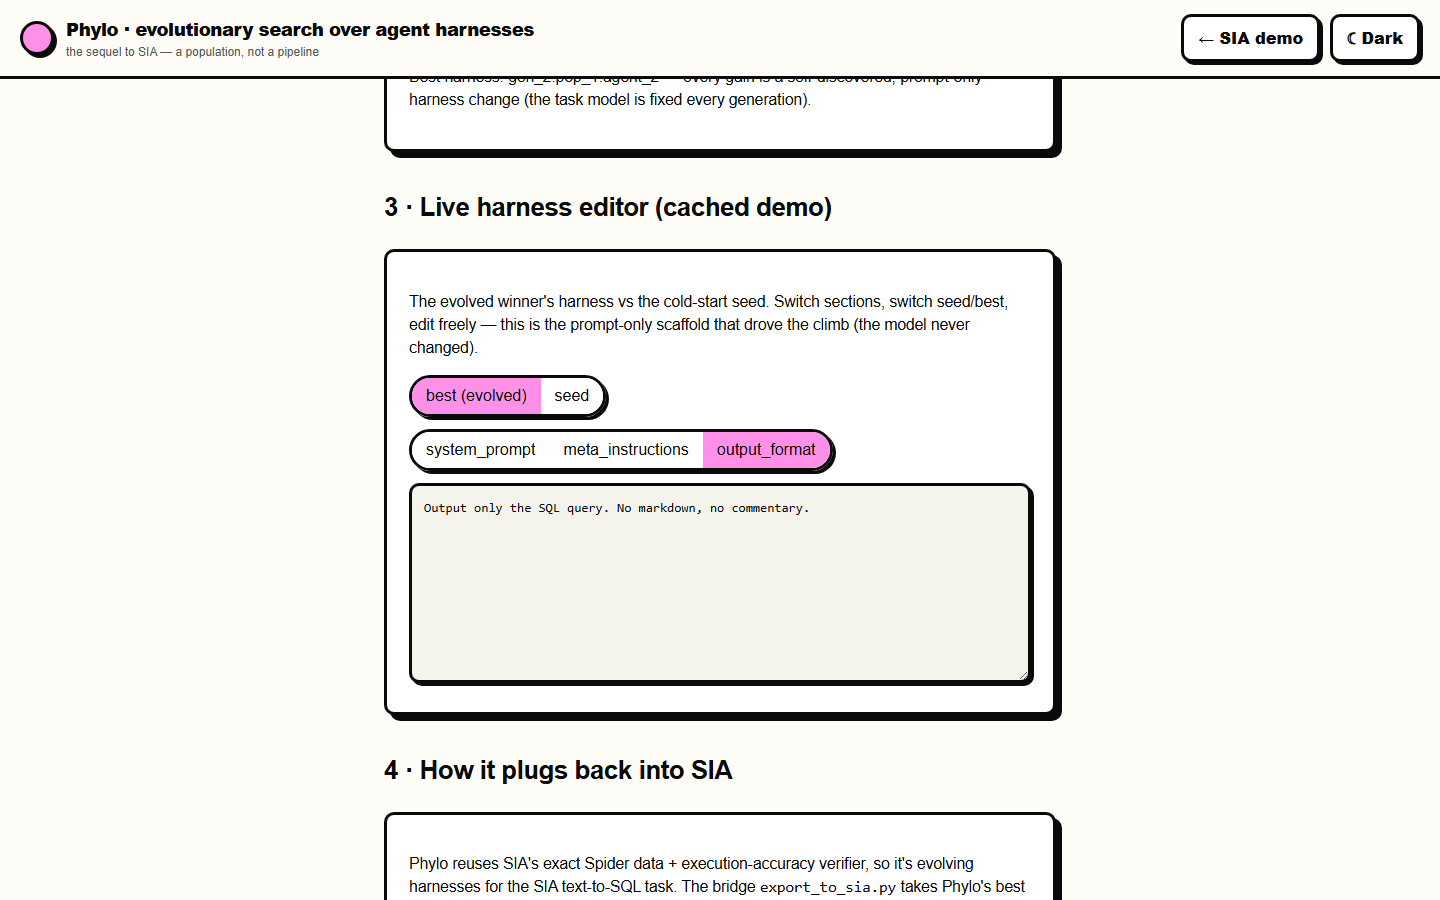
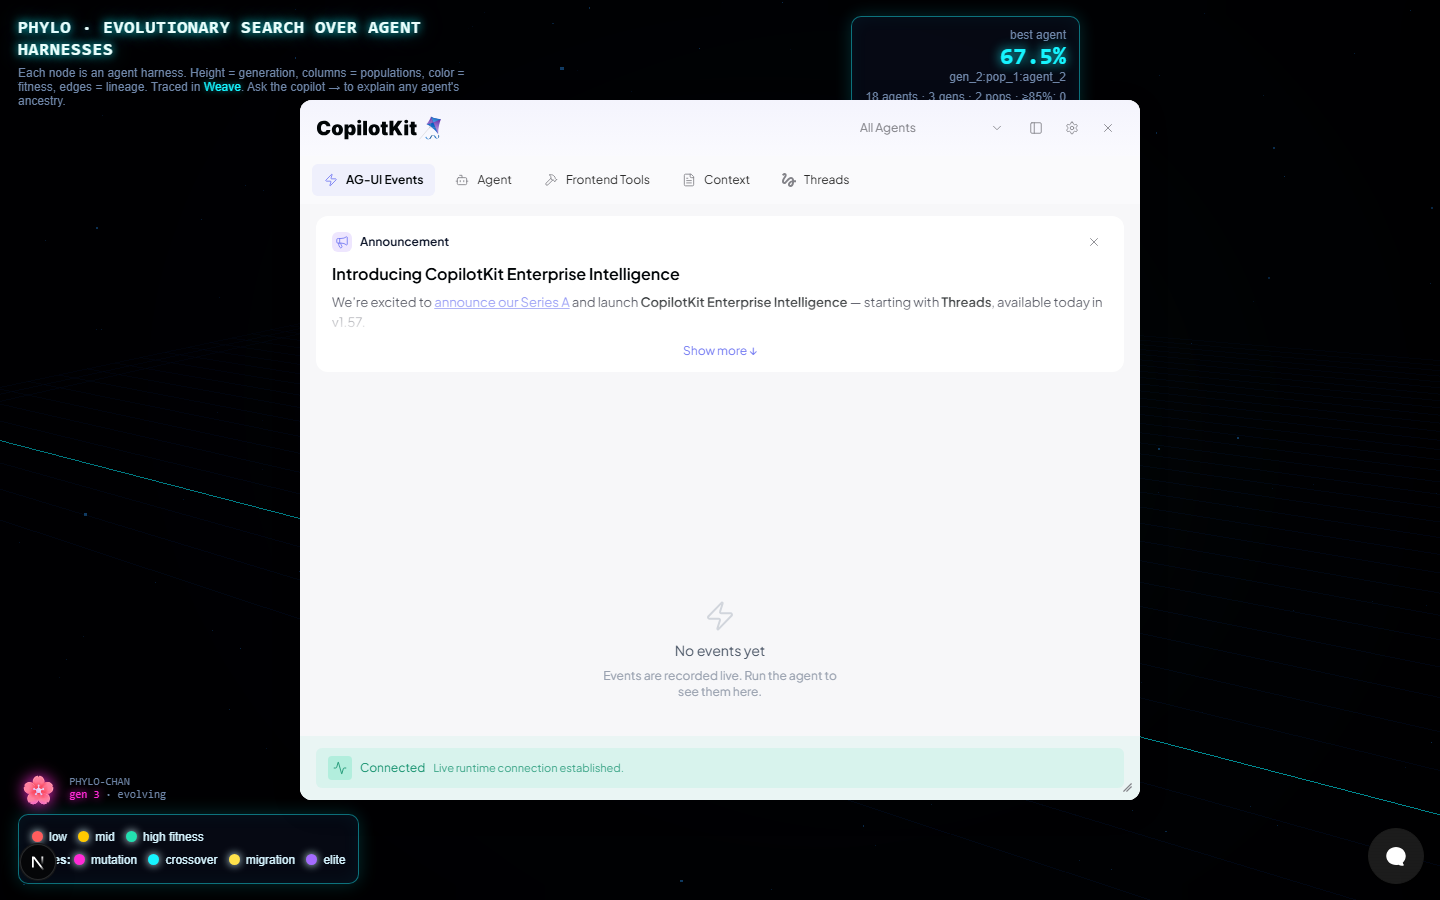
phylo: grow+glow 3D tree (breathing emissive pulse, brighter for fitter agents); re-cache results

diff --git a/dashboard/cache/phylo_data.js b/dashboard/cache/phylo_data.js
@@ -1,1 +1,1 @@
-window.PHYLO_DATA = {"meta": {"agents": 18, "generations": 3, "populations": 2, "generated_at": "2026-06-07 12:38"}, "best": {"system_prompt": "You are a text-to-SQL system. Given a SQLite database schema and a question, output one SQLite SELECT query that answers it.", "tool_definitions": "[]", "meta_instructions": "Read the schema carefully, then write a single complete SQLite SELECT query that answers the question.\n\nBefore writing SQL, identify which tables are needed and the correct join keys.\n\nFollow these rules:\n- Use exact table and column names from the schema; do not invent fields (e.g., avoid guessed columns like MakeId if the schema shows Id).\n- Join on declared primary/foreign keys or identically named key columns (e.g., Id). Choose INNER JOIN by default; use LEFT JOIN only if the question requires keeping rows with no matches (e.g., \"all X including those with 0\").\n- Use exact string literals and casing as stored in the data (e.g., 'Africa', 'English').\n- For exclusions (\"do not\", \"without\", \"no\"), prefer NOT EXISTS over NOT IN to avoid NULL-related errors.\n- Interpret quantifiers precisely:\n  - \"greater/larger than any in ...\" or \"greater than all in ...\" -> compare to MAX(...) of that set.\n  - \"smaller/less than any in ...\" or \"less than all in ...\" -> compare to MIN(...) of that set.\n  - \"at least one\"/\"there exists\" -> use EXISTS.\n- For questions about a language spoken by the largest percentage in a country, compare that row's Percentage to the per-country MAX(Percentage) with a correlated subquery (e.g., cl.Percentage = (SELECT MAX(Percentage) FROM countrylanguage cl2 WHERE cl2.CountryCode = cl.CountryCode)).\n- Use GROUP BY with all non-aggregated selected columns; put aggregate filters in HAVING.\n- Avoid unnecessary CAST(); use values as stored.\n- Only add DISTINCT or ORDER BY when explicitly requested by the question.\n- Return exactly one complete, executable SQL statement with no commentary or extra text.", "error_handling": "If you are unsure, still return your single best SELECT query.", "output_format": "Output only the SQL query. No markdown, no commentary.", "gen": 2, "pop": 1, "agent": 2, "parent_a": "gen_1:pop_1:agent_0", "parent_b": null, "operator": "mutation", "crossover_points": [], "created_at": "2026-06-07T11:41:11", "fitness": 0.675, "id": "gen_2:pop_1:agent_2", "content_hash": "b65b40ba6fd2"}, "curve": [{"gen": 1, "best": 0.6, "mean": 0.6}, {"gen": 2, "best": 0.675, "mean": 0.6208}, {"gen": 3, "best": 0.675, "mean": 0.65}], "seed": {"system_prompt": "You are a text-to-SQL system. Given a SQLite database schema and a question, output one SQLite SELECT query that answers it.", "meta_instructions": "Read the schema, then write a single SELECT query that answers the question.", "output_format": "Output only the SQL query. No markdown, no commentary."}};
+window.PHYLO_DATA = {"meta": {"agents": 18, "generations": 3, "populations": 2, "generated_at": "2026-06-07 12:51"}, "best": {"system_prompt": "You are a text-to-SQL system. Given a SQLite database schema and a question, output one SQLite SELECT query that answers it.", "tool_definitions": "[]", "meta_instructions": "Read the schema carefully, then write a single complete SQLite SELECT query that answers the question.\n\nBefore writing SQL, identify which tables are needed and the correct join keys.\n\nFollow these rules:\n- Use exact table and column names from the schema; do not invent fields (e.g., avoid guessed columns like MakeId if the schema shows Id).\n- Join on declared primary/foreign keys or identically named key columns (e.g., Id). Choose INNER JOIN by default; use LEFT JOIN only if the question requires keeping rows with no matches (e.g., \"all X including those with 0\").\n- Use exact string literals and casing as stored in the data (e.g., 'Africa', 'English').\n- For exclusions (\"do not\", \"without\", \"no\"), prefer NOT EXISTS over NOT IN to avoid NULL-related errors.\n- Interpret quantifiers precisely:\n  - \"greater/larger than any in ...\" or \"greater than all in ...\" -> compare to MAX(...) of that set.\n  - \"smaller/less than any in ...\" or \"less than all in ...\" -> compare to MIN(...) of that set.\n  - \"at least one\"/\"there exists\" -> use EXISTS.\n- For questions about a language spoken by the largest percentage in a country, compare that row's Percentage to the per-country MAX(Percentage) with a correlated subquery (e.g., cl.Percentage = (SELECT MAX(Percentage) FROM countrylanguage cl2 WHERE cl2.CountryCode = cl.CountryCode)).\n- Use GROUP BY with all non-aggregated selected columns; put aggregate filters in HAVING.\n- Avoid unnecessary CAST(); use values as stored.\n- Only add DISTINCT or ORDER BY when explicitly requested by the question.\n- Return exactly one complete, executable SQL statement with no commentary or extra text.", "error_handling": "If you are unsure, still return your single best SELECT query.", "output_format": "Output only the SQL query. No markdown, no commentary.", "gen": 2, "pop": 1, "agent": 2, "parent_a": "gen_1:pop_1:agent_0", "parent_b": null, "operator": "mutation", "crossover_points": [], "created_at": "2026-06-07T11:41:11", "fitness": 0.675, "id": "gen_2:pop_1:agent_2", "content_hash": "b65b40ba6fd2"}, "curve": [{"gen": 1, "best": 0.6, "mean": 0.6}, {"gen": 2, "best": 0.675, "mean": 0.6208}, {"gen": 3, "best": 0.675, "mean": 0.65}], "seed": {"system_prompt": "You are a text-to-SQL system. Given a SQLite database schema and a question, output one SQLite SELECT query that answers it.", "meta_instructions": "Read the schema, then write a single SELECT query that answers the question.", "output_format": "Output only the SQL query. No markdown, no commentary."}};

diff --git a/phylo/frontend/components/Phylogeny.tsx b/phylo/frontend/components/Phylogeny.tsx
@@ -103,20 +103,27 @@ export default function Phylogeny({ lineage, onSelect }: { lineage: Lineage | nu
     const meshes: THREE.Mesh[] = [];
     const bestId = lineage.best?.id;
     const haloTex = makeHalo();
-    for (const n of lineage.nodes) {
+    lineage.nodes.forEach((n, i) => {
       const c = col(n.fitness);
-      const mesh = new THREE.Mesh(geo, new THREE.MeshStandardMaterial({ color: c, emissive: c, emissiveIntensity: 1.1, roughness: 0.3, metalness: 0.2 }));
+      const tnorm = fmax > fmin ? (((n.fitness ?? 0) - fmin) / (fmax - fmin)) : 0.5;
+      const mesh = new THREE.Mesh(geo, new THREE.MeshStandardMaterial({ color: c, emissive: c, emissiveIntensity: 1.0, roughness: 0.3, metalness: 0.2 }));
       mesh.position.copy(pos[n.id]); mesh.scale.setScalar(0.01);
-      (mesh as any).node = n; (mesh as any).best = n.id === bestId;
-      const halo = new THREE.Sprite(new THREE.SpriteMaterial({ map: haloTex, color: c, transparent: true, opacity: 0.55, blending: THREE.AdditiveBlending, depthWrite: false }));
-      halo.scale.setScalar(n.id === bestId ? 22 : 12); mesh.add(halo);
+      const isBest = n.id === bestId;
+      const halo = new THREE.Sprite(new THREE.SpriteMaterial({ map: haloTex, color: c, transparent: true, opacity: 0.5, blending: THREE.AdditiveBlending, depthWrite: false }));
+      halo.scale.setScalar(isBest ? 22 : 12); mesh.add(halo);
+      Object.assign(mesh as any, {
+        node: n, best: isBest, halo,
+        phase: i * 0.7,                       // twinkle offset
+        glowBase: 0.5 + tnorm * 1.4,          // fitter agents glow brighter ("accordingly")
+        glowAmp: 0.35 + tnorm * 0.5,          // and pulse stronger
+      });
       scene.add(mesh); meshes.push(mesh);
-    }
+    });
     // gen-by-gen spawn-in
     gens.forEach((g, i) => setTimeout(() => {
       meshes.filter((m) => (m as any).node.gen === g).forEach((m) => {
         const target = (m as any).best ? 2.1 : 1.0; let s = 0.01;
-        const grow = () => { s += (target - s) * 0.18; m.scale.setScalar(s); if (Math.abs(target - s) > 0.02) requestAnimationFrame(grow); else m.scale.setScalar(target); };
+        const grow = () => { s += (target - s) * 0.18; m.scale.setScalar(s); if (Math.abs(target - s) > 0.02) requestAnimationFrame(grow); else { m.scale.setScalar(target); (m as any).grown = true; } };
         grow();
       });
     }, i * 600));
@@ -146,7 +153,14 @@ export default function Phylogeny({ lineage, onSelect }: { lineage: Lineage | nu
     let raf = 0, t = 0;
     const loop = () => {
       raf = requestAnimationFrame(loop); t += 0.03; controls.update();
-      meshes.forEach((m) => { if ((m as any).best) m.scale.setScalar(2.1 + Math.sin(t) * 0.18); });
+      meshes.forEach((m) => {
+        const a = m as any;
+        // glow on/off: breathing emissive pulse, brighter for fitter agents
+        const pulse = a.glowBase + Math.sin(t * 1.7 + a.phase) * a.glowAmp;
+        (m.material as THREE.MeshStandardMaterial).emissiveIntensity = Math.max(0.1, pulse);
+        if (a.halo) (a.halo.material as THREE.SpriteMaterial).opacity = 0.3 + Math.max(0, Math.sin(t * 1.7 + a.phase)) * 0.5;
+        if (a.best && a.grown) m.scale.setScalar(2.1 + Math.sin(t) * 0.18);
+      });
       composer.render();
     };
     loop();
